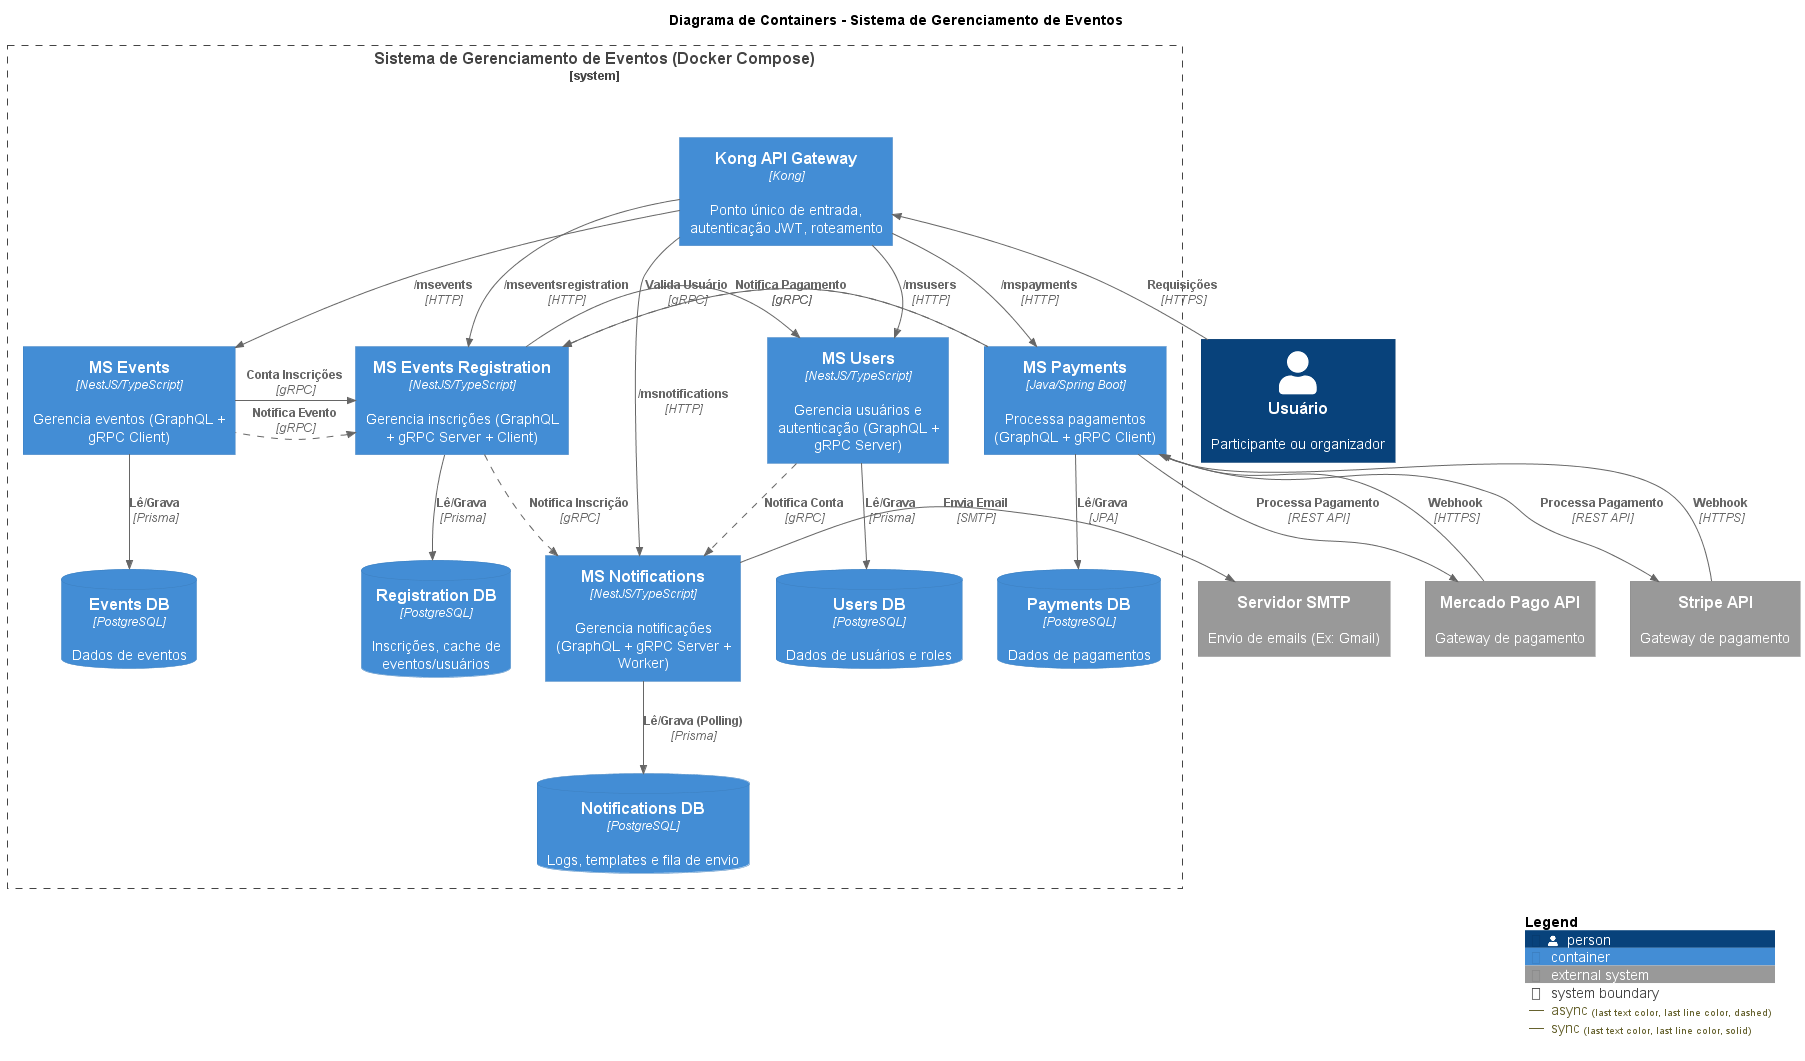
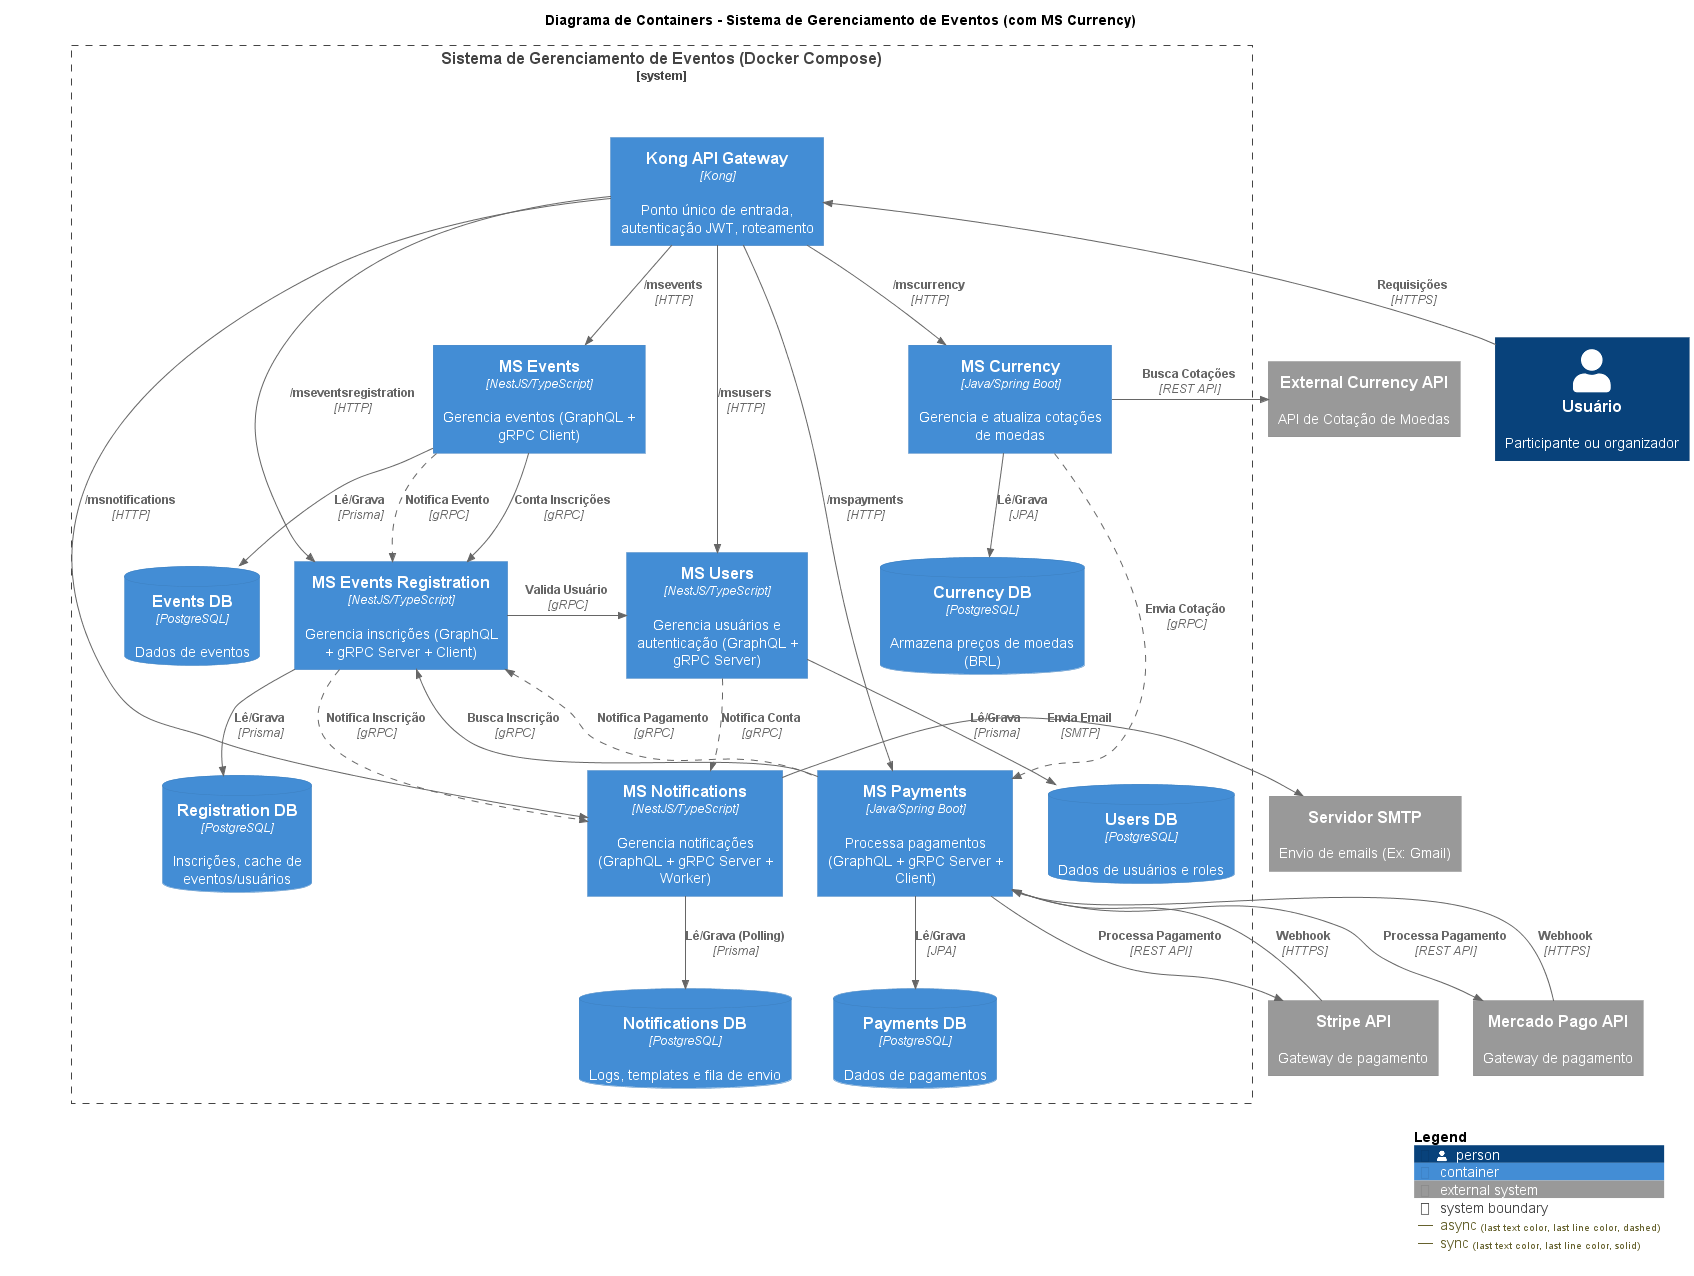
adding more information

diff --git a/docs/ARCHITECTURE.md b/docs/ARCHITECTURE.md
@@ -9,14 +9,14 @@ Este documento detalha as principais decisões arquiteturais tomadas durante o d
 1. [Arquitetura de Microsserviços](#arquitetura-de-microsserviços)
 2. [Escolha de Tecnologias](#escolha-de-tecnologias)
 3. [Comunicação Entre Serviços](#comunicação-entre-serviços)
-4. [Gerenciamento de Dados](#gerenciamento-de-dados)
-5. [Segurança](#segurança)
+4. [Padrões de Projeto](#padroes-de-projeto)
+5. [Gerenciamento de Dados](#gerenciamento-de-dados)
+6. [Segurança](#segurança)
 
 ---
 
 ## Arquitetura de Microsserviços
 
-### Decisão: Por que Microsserviços?
 
 **Escolha**: Arquitetura de microsserviços
 
@@ -65,11 +65,6 @@ Este documento detalha as principais decisões arquiteturais tomadas durante o d
 - Gerenciamento de templates
 - Processamento assíncrono
 
-**Justificativa**:
-- Processamento assíncrono não bloqueia operações críticas
-- Permite retry sem afetar outros serviços
-- Facilita implementação de novos canais
-
 ---
 
 ## Escolha de Tecnologias
@@ -106,6 +101,34 @@ Este documento detalha as principais decisões arquiteturais tomadas durante o d
 - MS Registration → MS Payments (solicitar pagamento)
 - MS Events → MS Registration (consultar total de inscritos)
 - Qualquer MS → MS Notifications (enviar notificação)
+
+---
+
+## Padrões de Projeto
+
+**Singleton**
+
+O PrismaClient gerencia o pool de conexões com o banco de dados. Criar uma nova instância do PrismaClient para cada repositório ou serviço esgotaria rapidamente o limite de conexões do PostgreSQL. O Singleton garante que todos os repositórios em um microsserviço compartilhem a mesma instância e o mesmo pool de conexões.
+
+**Builder (MSEVENTS)**
+
+A entidade Evento é complexa, possuindo muitos campos obrigatórios (título, datas, capacidade) e opcionais (descrição, preço, datas de venda). Em vez de um construtor com 10+ argumentos, o EventBuilder é usado pelo EventDirector para construir um objeto EventProps passo a passo, garantindo que o objeto final seja sempre válido antes de ser enviado ao repositório.
+
+**Strategy**
+
+- (MSNOTIFICATIONS) Permite que a lógica de envio seja trocada. O NotificationSender não precisa saber como enviar um e-mail, ele apenas chama o método send() de uma INotificationStrategy. Podemos adicionar SMSStrategy ou PushStrategy sem alterar o NotificationSender.
+
+- (MSPAYMENTS) É a base do serviço, o PaymentService usa duas estratégias: PaymentMethodStrategy (para tratar a lógica de Pix vs. CreditCard) e PaymentGatewayStrategy (para tratar a lógica de MercadoPago vs. Stripe).
+
+- (MSEVENTSREGISTRATION) O RegistrationService usa o RegistrationStrategyService para escolher entre FreeRegistrationStrategy (status CONFIRMED) ou PaidRegistrationStrategy (status WAITING_PAYMENT) com base no is_free do evento.
+
+**Factory (MSPAYMENTS)**
+
+O PaymentService não contém new MercadoPagoGateway(). Ele pede ao PaymentGatewayFactory.getPaymentGateway(...) pela estratégia necessária. A Factory esconde a complexidade de qual classe concreta instanciar.
+
+**Decorator (MSNOTIFICATIONS)**
+
+EmailStrategy tem apenas uma responsabilidade: enviar o e-mail. Para adicionar funcionalidades de logs, novas tentativas (retry) e monitoramento de performance, não modificamos a EmailStrategy. Em vez disso, o StrategyFactory "embrulha" a estratégia em RetryDecorator, AuditLogDecorator e PerformanceLogDecorator. Isso permite que essas funcionalidades sejam adicionadas ou removidas sem alterar a lógica de negócio principal.
 
 ---
 

diff --git a/README.md b/README.md
@@ -9,7 +9,7 @@ Sistema de gerenciamento de eventos similar ao Sympla, desenvolvido com arquitet
 * [Sobre o Projeto](#-sobre-o-projeto)
 * [Arquitetura do Sistema](#-arquitetura-do-sistema)
 * [Documentação Completa](#-documentação-completa)
-    * [Diagramas C4 (Contexto, Contêineres, etc.)](./docs/diagrams/README.md)
+    * [Diagramas C4 (Contexto, Contêineres, etc.)](./docs/diagrams/DIAGRAMS.md)
     * [Guia da API (GraphQL)](./docs/API_GUIDE.md)
     * [Decisões de Arquitetura (SOLID, Patterns)](./docs/ARCHITECTURE.md)
 * [Como Executar (Instalação)](#-guia-de-instalação-e-execução)
@@ -54,6 +54,20 @@ O sistema é composto por 5 microsserviços principais, um API Gateway e bancos 
 
 ---
 
+## Design Patterns
+
+O sistema utilizou  5 padrões de projeto distintos, espalhandos pelos microsserviços, entre eles foram:
+
+1.  **Singleton** : Garante uma única instância de uma classe e fornece um ponto global de acesso a ela
+2.  **Strategy**: Define famílias de algoritmos e permite trocar o comportamento em tempo de execução sem alterar o código cliente
+3.  **Factory**: Centraliza a criação de objetos sem expor a lógica de instanciamento, delegando a subclasses ou métodos
+4.  **Decorator**: Adiciona funcionalidades extras dinamicamente a um objeto sem alterar sua estrutura original
+5.  **Builder**: Adiciona funcionalidades extras dinamicamente a um objeto sem alterar sua estrutura original
+
+Para saber mais profundado sobre a implementação de cada um acesse: 
+* [Decisões de Arquitetura (SOLID, Patterns)](./docs/ARCHITECTURE.md) - Para justificativas
+* [Diagramas C4 (Contexto, Contêineres, etc.)](./docs/diagrams/DIAGRAMS.md) - Para visualizar com clareza atraves de diagramas
+
 ## Documentação Completa
 
 Toda a documentação detalhada do projeto, incluindo diagramas, guias de API e decisões arquiteturais, está centralizada na pasta `/docs`.
@@ -78,7 +92,7 @@ Toda a documentação detalhada do projeto, incluindo diagramas, guias de API e 
 ```bash
 git clone [https://github.com/GabrielMainiere/events-backend.git](https://github.com/GabrielMainiere/events-backend.git)
 cd events-backend
-
+```
 ---
 
 ### Passo 2: Configurar Variáveis de Ambiente
@@ -149,7 +163,7 @@ O API Gateway (Kong) é o ponto de entrada principal e está disponível em [htt
 
 > **Nota:** Para testar as mutations e queries, consulte o [Guia da API (GraphQL)](./docs/API_GUIDE.md).
 
-## 👨💻 Autores
+##  Autores
 
 - Gabriel Mainiere - [GitHub](https://github.com/GabrielMainiere)
 - Luiz Reis - [GitHub](https://github.com/LuizReis-dev)

diff --git a/docs/diagrams/DIAGRAMS.md b/docs/diagrams/DIAGRAMS.md
@@ -48,6 +48,9 @@ Um "zoom" em cada microsserviço, mostrando seus componentes internos e responsa
 ### Componentes - MS Users
 ![Componentes do MS Users](./images/c4-component-users.png)
 
+### Componentes - MS Currency
+![Componentes do MS Users](./images/c4-component-currency.png)
+
 ---
 
 ## Nível 4: Diagramas de Código (Padrões de Projeto)
@@ -70,4 +73,4 @@ Diagramas de classe que ilustram a implementação de padrões de projeto chave.
 ![Padrão Singleton](./images/c4-code-singleton-pattern.png)
 
 ### Padrão Strategy + Factory (MS Payments)
-![Padrão Strategy/Factory Acoplado](./images/c4-code-strategy-factory-pattern.png)
+![Padrão Strategy/Factory](./images/c4-code-strategy-factory-pattern.png)
